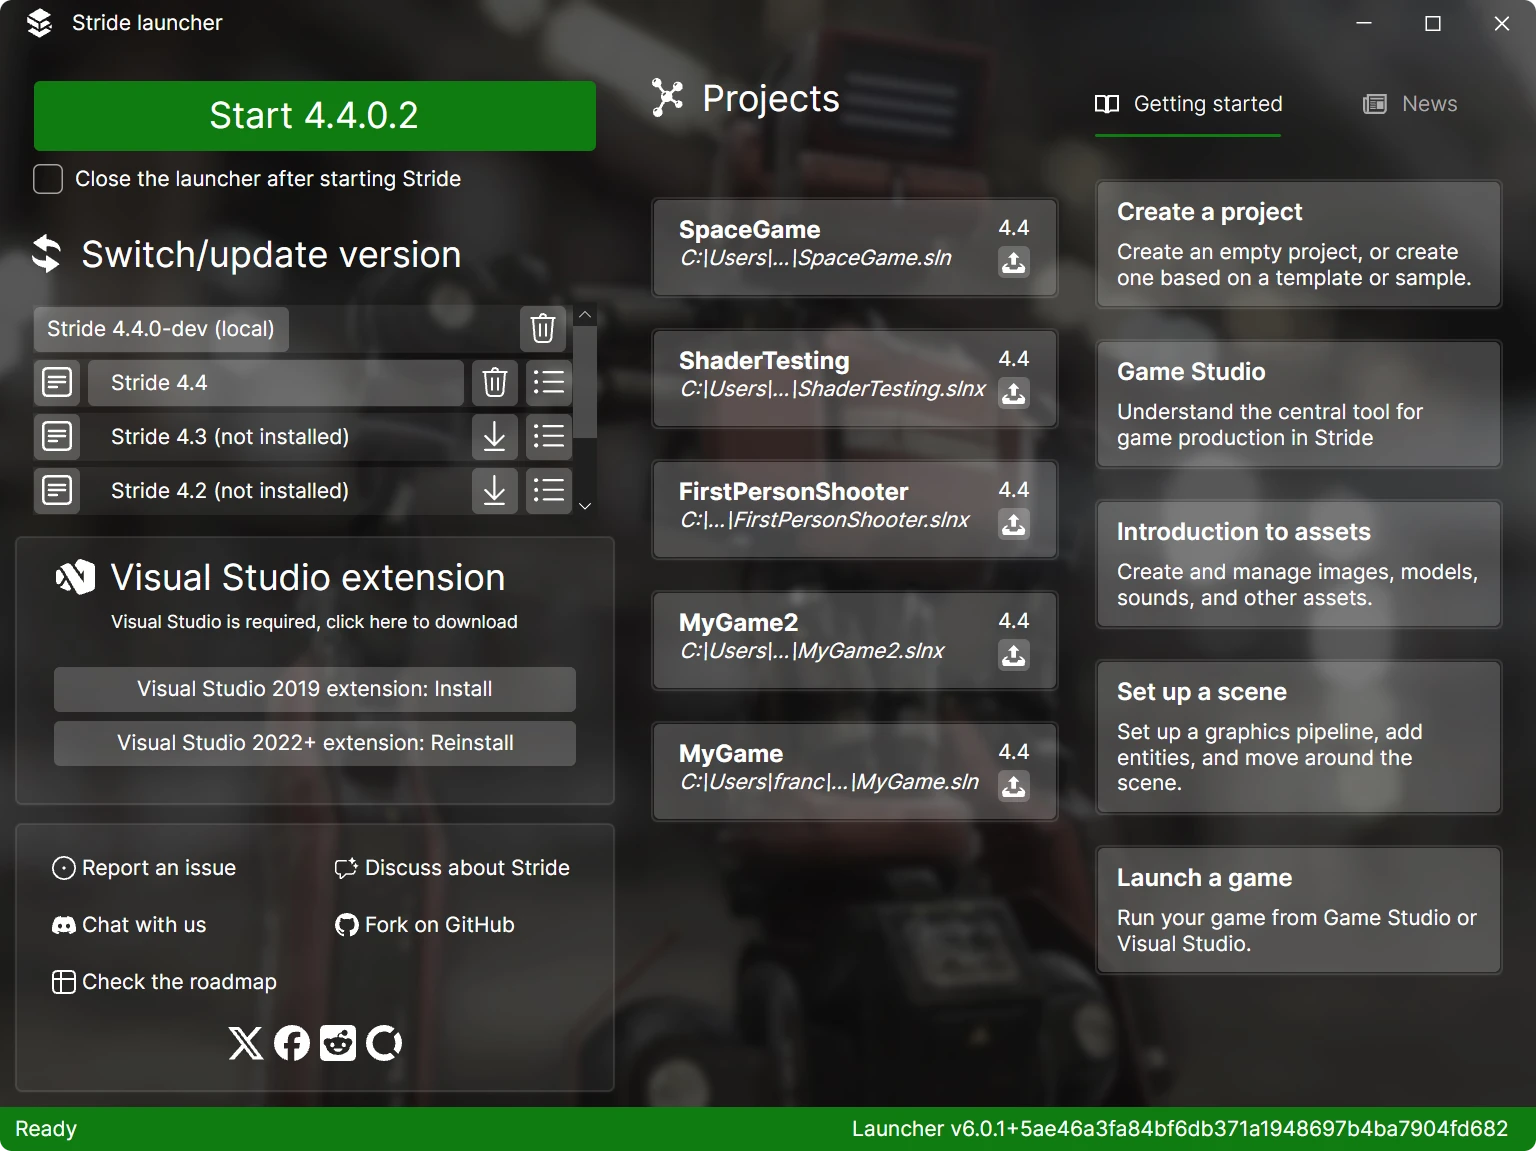
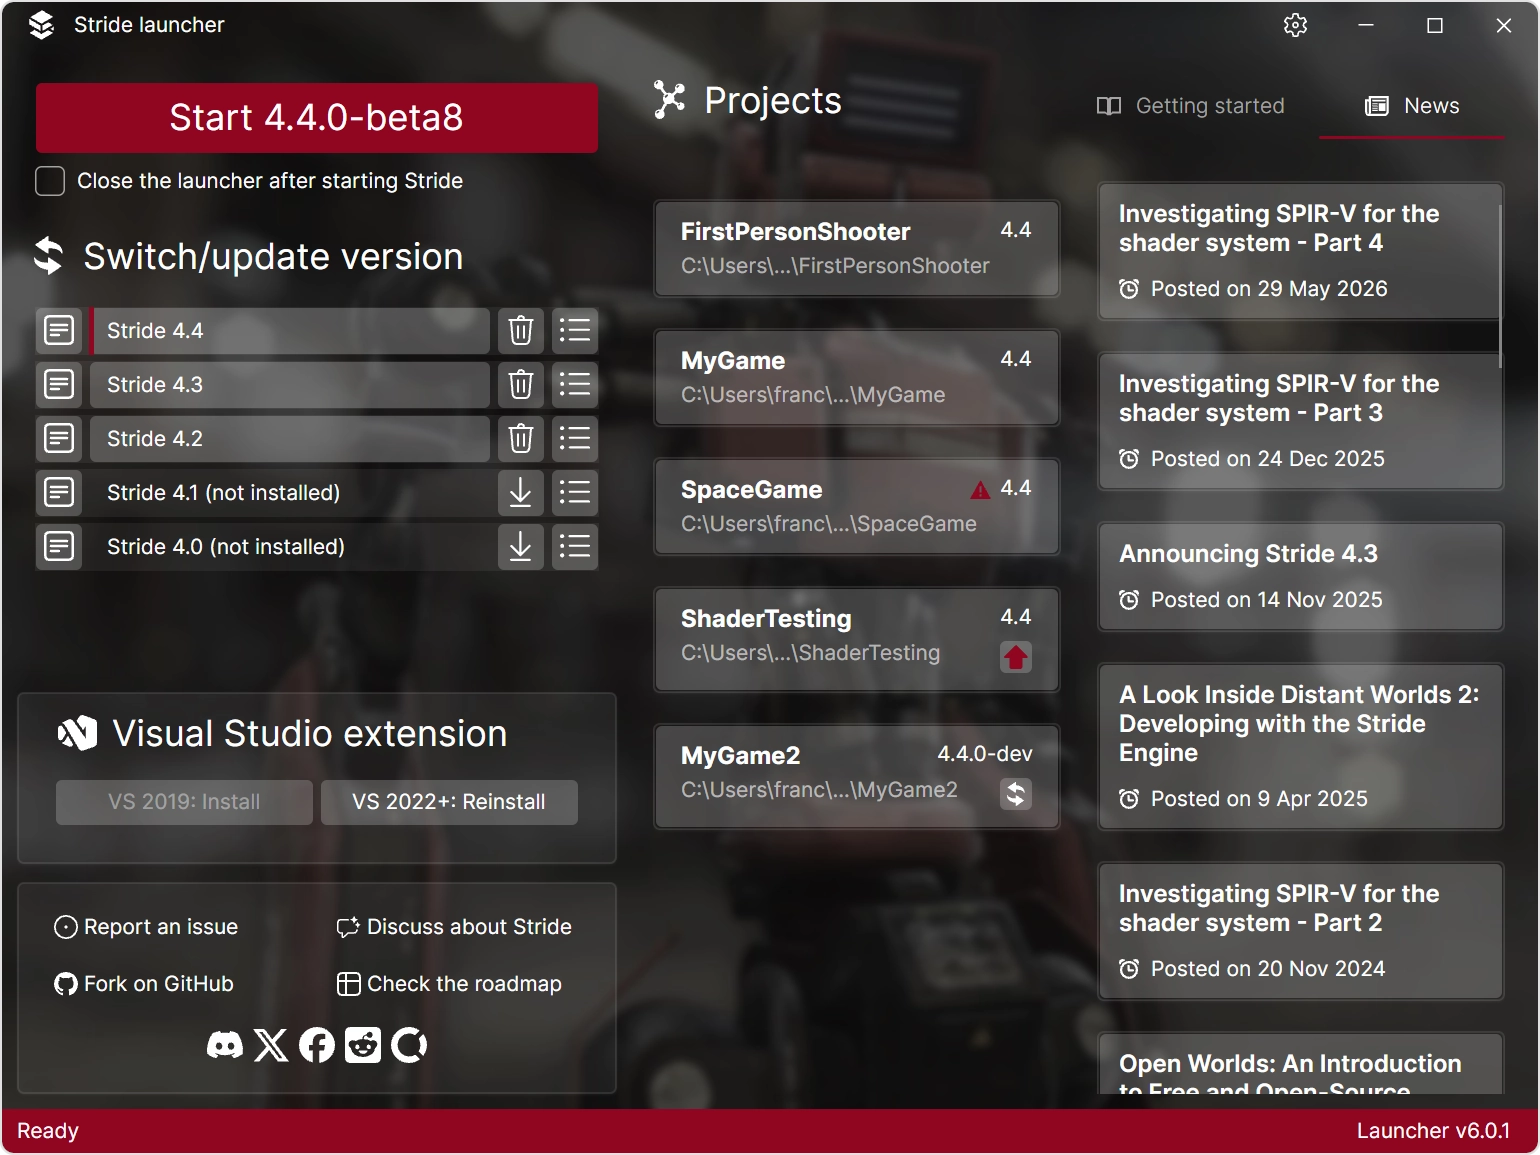
fix: Updated launcher image in 4.4 announcement (#402)

diff --git a/posts/2026-11-14-announcing-stride-4-4.md b/posts/2026-11-14-announcing-stride-4-4.md
@@ -101,12 +101,6 @@ As part of this effort, we have recently updated the launcher which is now using
 
 {% img-click 'New launcher supports system theme and accent color.' '/images/blog/release-4.4/new-launcher.webp' %}
 
-{%- capture title -%}
-The launcher's color scheme is synchronized with your system.
-{%- endcapture -%}
-
-{% include _alert.html type:'secondary' title: title %}
-
 We also have one more announcement for Linux users looking to use the editor on their system today...
 
 #### Game Studio can now run on Linux via Proton
